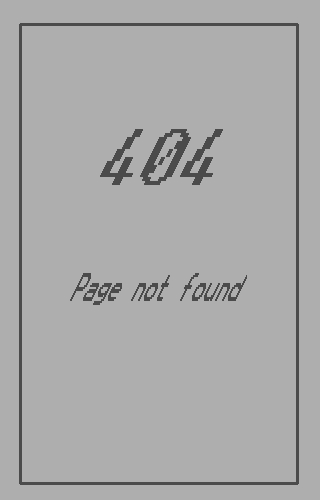
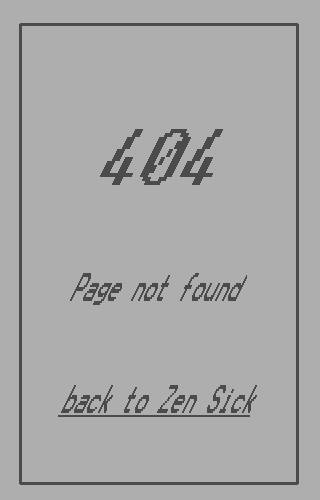
404 changes

Changed region(s): [[0.1875, 0.75, 0.8125, 0.84]]

diff --git a/public/main.css b/public/main.css
@@ -304,7 +304,6 @@ img + strong /* former #imgcap */ {
     margin-right: 5px;
     margin-bottom: 5px;
 }
-
 .tags {
     font-size: 14px;
     margin-left: 20px;
@@ -340,7 +339,6 @@ img + strong /* former #imgcap */ {
 .footerref .textmain #about h3 {
     text-align: center;
 }
-
 .footerref .textmain #authors {
     display: block;
     text-decoration: none;
@@ -366,7 +364,6 @@ img + strong /* former #imgcap */ {
     width: 150px;
     height: 150px;
 }
-
 .footerref .textmain #contact {
     font-family: PT Sans, monospace;
     text-align: center;
@@ -382,7 +379,9 @@ img + strong /* former #imgcap */ {
     background: #195da1;
     color: #fff;
 }
-    
+
+/* e-mail + 404 */
+
 #email h2 {
     font-family: 'Open Sans', sans-serif;
     margin: 0;
@@ -394,18 +393,13 @@ img + strong /* former #imgcap */ {
     background-color: #AEAEAE;
     background-image: none;
 }
-.nfound img {
-    margin-left: 25vw;
-    margin-right: 25vw;
-}
-.nfound h2 {
-    margin-left: 21vw;
-    margin-right: 22vw;
-    margin-top: 0;
-}
+
 .slicknav_menu {
 	display: none;
 }
+
+/* author */
+
 .author {
     margin-left: 2vw;
     width: 30vw;
@@ -421,6 +415,7 @@ img + strong /* former #imgcap */ {
 .author img {
     margin: 0;
 }
+
 /*----------------------------------------------------*/
 /*----------------------------------------------------*/
 /*----------------------------------------------------*/
@@ -499,5 +494,14 @@ img + strong /* former #imgcap */ {
     .author img {
         margin: 0;
         width: 10vw;
+    }
+    .nfound {
+        background-color: #AEAEAE;
+        background-image: url(img/404mob.jpg)!IMPORTANT;
+        background-size: cover;
+    }   
+    .nfound a img {
+        width: 100%;
+        height: auto;
     }
 }
